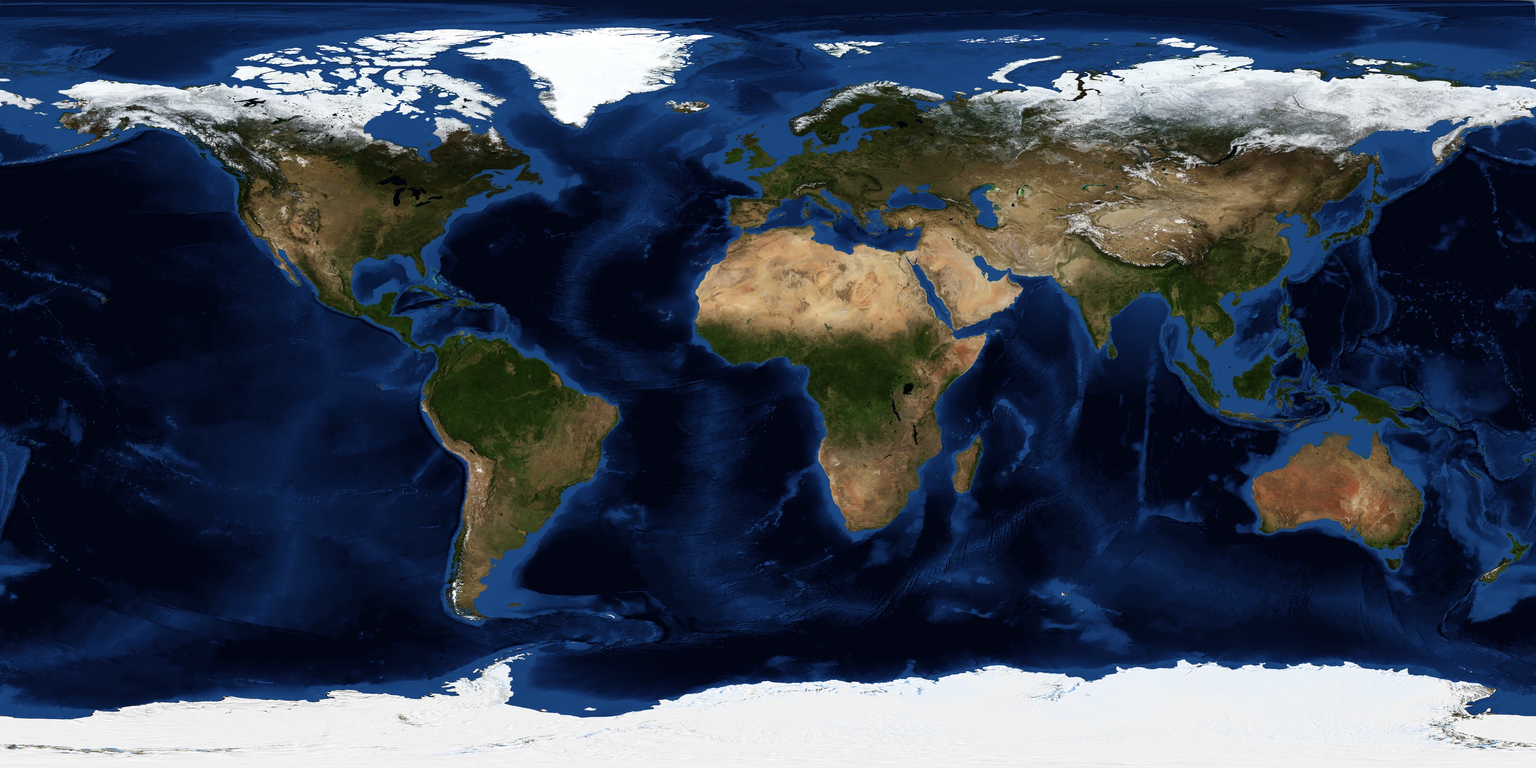
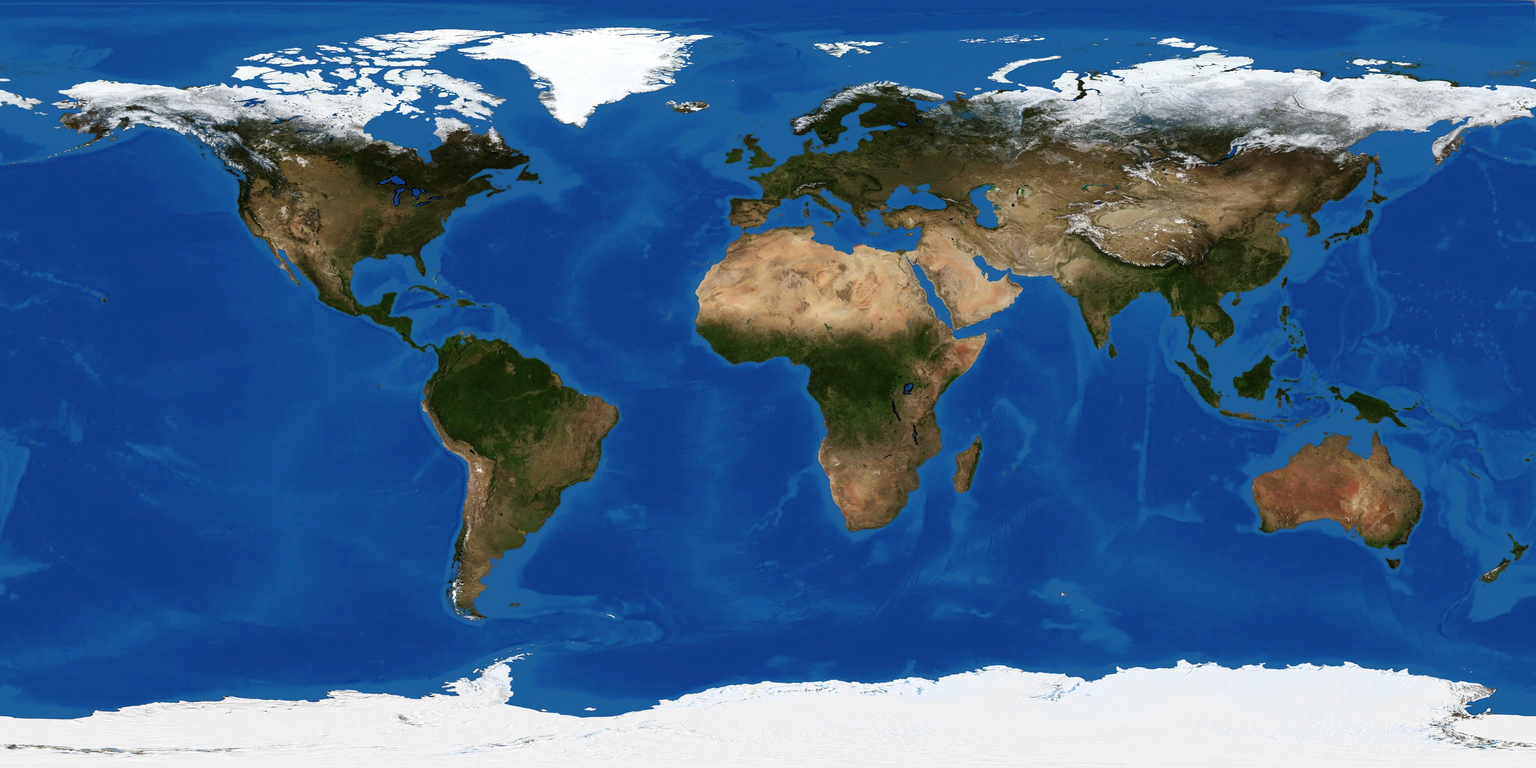
fix(globe): authentic NASA blue marble ocean colors with natural lighting and Rayleigh atmospheric limb

diff --git a/frontend/src/components/Globe3D.jsx b/frontend/src/components/Globe3D.jsx
@@ -44,7 +44,7 @@ export default function Globe3D({
     renderer.setSize(width, height);
     renderer.setPixelRatio(Math.min(window.devicePixelRatio, 2));
     renderer.toneMapping = THREE.ACESFilmicToneMapping;
-    renderer.toneMappingExposure = 0.95;
+    renderer.toneMappingExposure = 1.10;
     container.innerHTML = '';
     container.appendChild(renderer.domElement);
     rendererRef.current = renderer;
@@ -61,17 +61,17 @@ export default function Globe3D({
     controlsRef.current = controls;
 
     // 4. Natural Lighting (Deep space realistic sun & ambient)
-    const ambientLight = new THREE.AmbientLight(0xffffff, 0.5);
+    const ambientLight = new THREE.AmbientLight(0xffffff, 0.7);
     scene.add(ambientLight);
 
-    // Warm, realistic sunlight
-    const sunLight = new THREE.DirectionalLight(0xfffaed, 1.8);
-    sunLight.position.set(16, 8, 12);
+    // Warm, realistic sunlight facing the visible hemisphere
+    const sunLight = new THREE.DirectionalLight(0xfffaed, 2.0);
+    sunLight.position.set(12, 8, 14);
     scene.add(sunLight);
 
     // Subtle neutral dark-side fill
-    const spaceFillLight = new THREE.DirectionalLight(0x1e293b, 0.35);
-    spaceFillLight.position.set(-16, -6, -10);
+    const spaceFillLight = new THREE.DirectionalLight(0x334155, 0.4);
+    spaceFillLight.position.set(-14, -6, -10);
     scene.add(spaceFillLight);
 
     // Camera-attached headlight: ensures spacecraft metallic panels and risk colors shine from all angles
@@ -138,8 +138,8 @@ export default function Globe3D({
         texture.colorSpace = THREE.SRGBColorSpace;
         const earthMat = new THREE.MeshStandardMaterial({
           map: texture,
-          metalness: 0.0,
-          roughness: 0.85,
+          metalness: 0.05,
+          roughness: 0.60, // gives water a soft, realistic specular sheen under space sunlight
         });
         const earthMesh = new THREE.Mesh(earthGeo, earthMat);
         earthGroup.add(earthMesh);
@@ -165,13 +165,14 @@ export default function Globe3D({
       }
     );
 
-    // Thin, realistic atmospheric haze hugging Earth's surface (not overly blue)
-    const atmosphereGeo = new THREE.SphereGeometry(EARTH_RADIUS + 0.08, 64, 64);
+    // Thin, realistic atmospheric Rayleigh scattering haze hugging Earth's surface
+    const atmosphereGeo = new THREE.SphereGeometry(EARTH_RADIUS + 0.06, 64, 64);
     const atmosphereMat = new THREE.MeshBasicMaterial({
-      color: 0x93c5fd,
+      color: 0x38bdf8,
       transparent: true,
-      opacity: 0.07,
-      side: THREE.BackSide
+      opacity: 0.12,
+      side: THREE.BackSide,
+      blending: THREE.AdditiveBlending
     });
     const atmosphereMesh = new THREE.Mesh(atmosphereGeo, atmosphereMat);
     earthGroup.add(atmosphereMesh);
